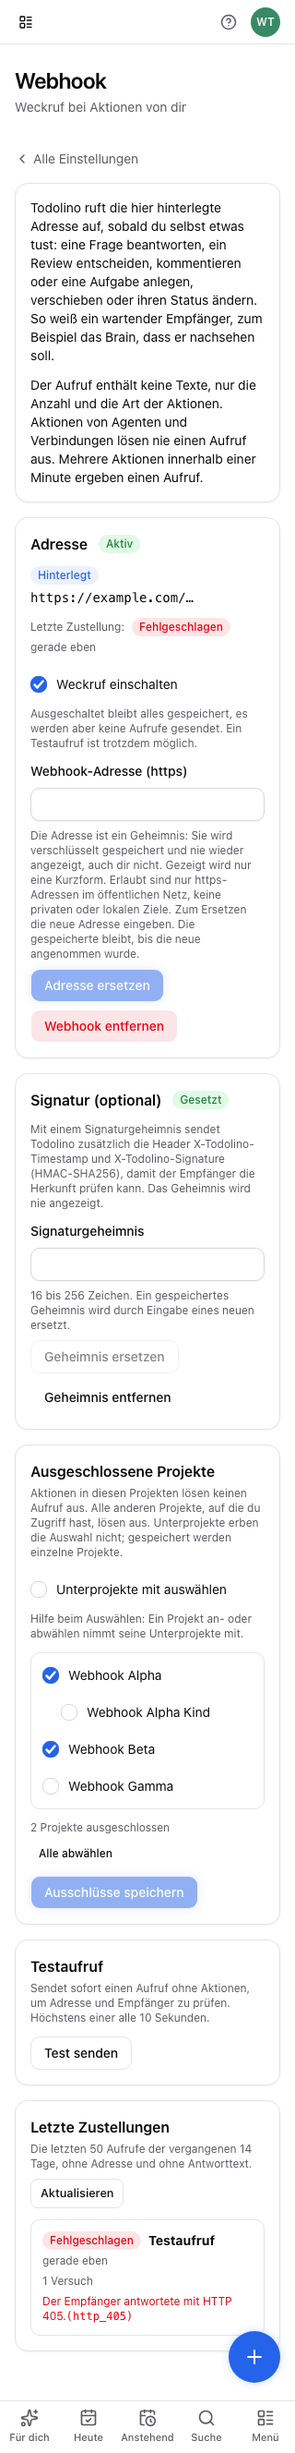
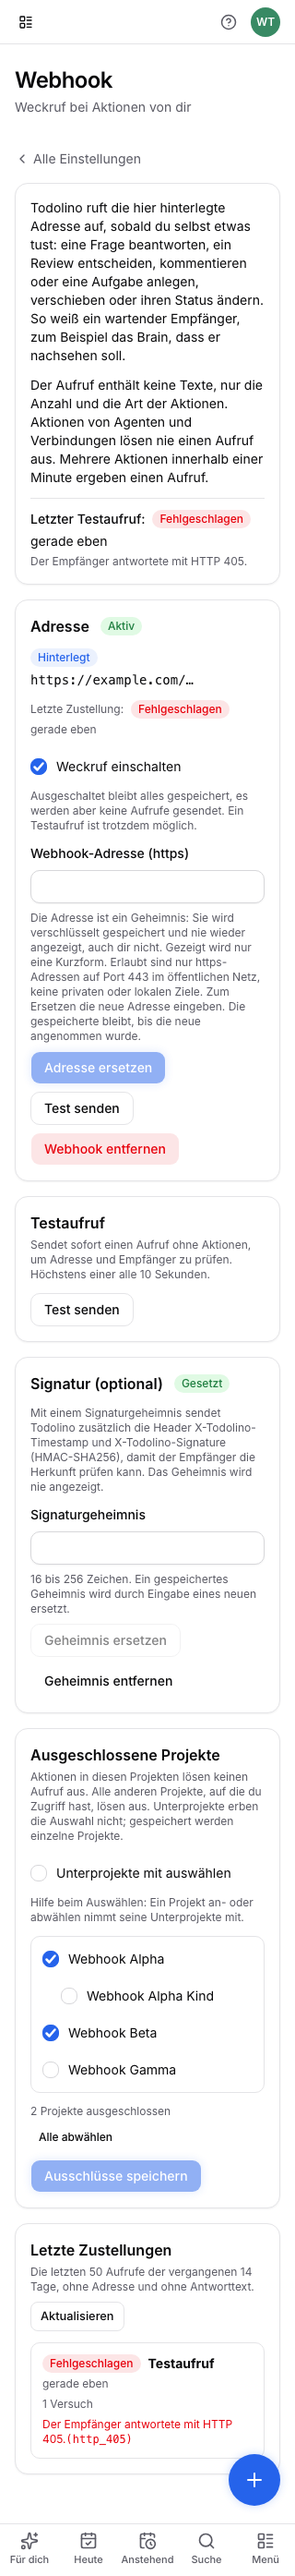
Karte F5D261AF, gruen: Webhook-Seite auffindbar (Schluessel-Hinweis, Testbereich immer sichtbar unter der Adresse, Test neben Speichern, letzter Test oben)
Server: GET /v1/settings/webhook liefert encryptionKeyAvailable (nur Flag), Vertrag 1.1.0.
PWA: Hinweis wh-nokey mit Befehl und Doku-Link, Speichern gesperrt mit Begruendung, wh-test-needs-url, wh-last-test.
Gruen: vitest 562, Swift Gesamt 768 (0 Fehler), E2E webhook-settings 14 gruen/1 skip (kein-DNS-Test), settings-hub 11 gruen.
Screenshots docs/screenshots/webhook-seite-*.png.

diff --git a/web/src/lib/components/settings/WebhookPage.svelte b/web/src/lib/components/settings/WebhookPage.svelte
@@ -5,11 +5,14 @@
 	import { describeError } from '#lib/errors.js';
 	import { t } from '#lib/i18n/index.js';
 	import { createLatest } from '#lib/serial.js';
+	import { KONFIGURATION_URL } from '#lib/helpNav.js';
 	import {
 		AUTO_DISABLE_FAILURES,
+		KEY_COMMAND,
 		MAX_EXCLUSIONS,
 		deliveryRow,
 		exclusionsChanged,
+		lastTestDelivery,
 		orderedProjects,
 		prefillExclusions,
 		safeMask,
@@ -18,6 +21,7 @@
 		toggleExclusion,
 		urlInput,
 		webhookErrorKey,
+		webhookSetup,
 		webhookStatus,
 		type WebhookDelivery,
 		type WebhookSettings
@@ -27,6 +31,7 @@
 	import { Checkbox } from '#lib/components/ui/checkbox/index.js';
 	import { Input } from '#lib/components/ui/input/index.js';
 	import Timestamp from '../Timestamp.svelte';
+	import ExternalLink from '@lucide/svelte/icons/external-link';
 
 	/**
 	 * Settings page "Webhook" (ADR 0035): one outgoing wake-up call per person. The address is a secret: it is typed into a masked
@@ -50,6 +55,9 @@
 	let withChildren = $state(false);
 	let confirmingRemove = $state(false);
 	let testResult = $state<{ ok: boolean; text: string } | null>(null);
+	// The result of the test sent in this view (kept when the protocol cannot be loaded) and the hint right after saving the address.
+	let freshTest = $state<WebhookDelivery | null>(null);
+	let justSaved = $state(false);
 	let busy = $state<Section | null>(null);
 	let message = $state('');
 	let error = $state<{ section: Section; text: string } | null>(null);
@@ -60,6 +68,10 @@
 	let removeButton = $state<HTMLButtonElement | null>(null);
 
 	const status = $derived(webhookStatus(settings));
+	const setup = $derived(webhookSetup(settings));
+	const noKey = $derived(setup === 'nokey');
+	const lastTest = $derived(lastTestDelivery([...deliveries, settings?.lastDelivery, freshTest]));
+	const lastTestRow = $derived(lastTest ? deliveryRow(lastTest) : null);
 	const configured = $derived(status !== 'none');
 	const mask = $derived(safeMask(settings?.maskedURL));
 	const rows = $derived(orderedProjects(projects));
@@ -136,7 +148,8 @@
 	async function saveURL(ev: SubmitEvent) {
 		ev.preventDefault();
 		const value = url;
-		if (!value || busy) return;
+		if (!value || busy || noKey) return;
+		justSaved = false;
 		const ok = await act('url', async () => {
 			settings = await api.updateWebhook({ url: value });
 			urlValue = '';
@@ -144,6 +157,7 @@
 			message = t('webhook.url.saved');
 		});
 		if (ok) {
+			justSaved = true;
 			await tick();
 			focusField('wh-url');
 		}
@@ -215,6 +229,8 @@
 			urlValue = '';
 			signingValue = '';
 			testResult = null;
+			freshTest = null;
+			justSaved = false;
 			await load();
 			message = t('webhook.remove.done');
 		});
@@ -223,10 +239,14 @@
 			focusField('wh-url');
 		} else confirmingRemove = false;
 	}
+	/** The one handler of every "Test senden" button (address card and test area). */
 	async function sendTest() {
+		if (!configured) return;
 		testResult = null;
+		justSaved = false;
 		await act('test', async () => {
 			const result = await api.testWebhook();
+			freshTest = result;
 			testResult = testOutcome(result);
 			await Promise.all([refreshDeliveries(), refreshSettings()]);
 		});
@@ -260,8 +280,34 @@
 
 <div class="flex max-w-3xl flex-col gap-4" data-testid="webhook-page">
 	<section class={card} data-testid="wh-intro">
+		{#if loaded && !loadError && noKey}
+			<div class="bg-warning-soft text-warning flex flex-col gap-2 {noteClass}" role="note" aria-labelledby="wh-nokey-title" data-testid="wh-nokey">
+				<p id="wh-nokey-title" class="font-semibold">{t('webhook.nokey.title')}</p>
+				<p>{t('webhook.nokey.text')}</p>
+				<p>{t('webhook.nokey.step')}</p>
+				<p><code class="bg-background text-foreground block rounded-md border px-2 py-1.5 font-mono text-xs break-all select-all" data-testid="wh-nokey-command">{KEY_COMMAND}</code></p>
+				<p>{t('webhook.nokey.after')}</p>
+				<p>
+					<a class="focus-visible:ring-ring/50 inline-flex items-center gap-1 rounded font-medium underline underline-offset-2 outline-none focus-visible:ring-2" href={KONFIGURATION_URL} target="_blank" rel="noopener noreferrer"
+						>{t('webhook.nokey.docs')}<ExternalLink class="size-3.5" aria-hidden="true" /><span class="sr-only">{t('webhook.nokey.newTab')}</span></a
+					>
+				</p>
+			</div>
+		{/if}
 		<p class="text-sm">{t('webhook.intro.what')}</p>
 		<p class="text-sm">{t('webhook.intro.limits')}</p>
+		{#if loaded && !loadError}
+			<p class="flex flex-wrap items-center gap-x-2 gap-y-1 border-t pt-3 text-sm" data-testid="wh-last-test">
+				<span class="font-medium">{t('webhook.lastTest.label')}</span>
+				{#if lastTest && lastTestRow}
+					<Badge variant={lastTestRow.tone}>{lastTestRow.stateLabel}</Badge>
+					<Timestamp value={lastTest.createdAt} />
+					{#if lastTestRow.state === 'failed' && lastTestRow.resultLabel}<span class="text-muted-foreground min-w-0 text-xs break-words">{lastTestRow.resultLabel}</span>{/if}
+				{:else}
+					<span class="text-muted-foreground">{t('webhook.lastTest.none')}</span>
+				{/if}
+			</p>
+		{/if}
 	</section>
 
 	<div role="status" aria-live="polite" class={message ? 'bg-success-soft text-success {noteClass}' : 'sr-only'} data-testid="wh-message">{message}</div>
@@ -330,12 +376,24 @@
 				/>
 				<p class="text-muted-foreground text-xs" id="wh-url-hint">{t('webhook.url.hint')}{#if configured}{' '}{t('webhook.url.hintReplace')}{/if}</p>
 				{@render notice('url')}
-				<div class="flex flex-wrap gap-2">
-					<Button type="submit" disabled={!!busy || !url} data-testid="wh-url-save">{busy === 'url' ? t('webhook.url.saving') : configured ? t('webhook.url.replace') : t('webhook.url.save')}</Button>
+				{#if justSaved && configured}
+					<p class="bg-success-soft text-success {noteClass}" id="wh-saved-next" data-testid="wh-saved-next">{t('webhook.url.savedNext')}</p>
+				{/if}
+				<div class="flex flex-wrap gap-2" data-testid="wh-url-actions">
+					<Button type="submit" disabled={!!busy || !url || noKey} aria-describedby={noKey ? 'wh-url-nokey-reason' : undefined} data-testid="wh-url-save">{busy === 'url' ? t('webhook.url.saving') : configured ? t('webhook.url.replace') : t('webhook.url.save')}</Button>
+					<Button
+						type="button"
+						variant={justSaved ? 'default' : 'outline'}
+						onclick={sendTest}
+						disabled={!!busy || !configured}
+						aria-describedby={!configured ? 'wh-test-needs-url' : justSaved ? 'wh-saved-next' : undefined}
+						data-testid="wh-test-inline">{busy === 'test' ? t('webhook.test.sending') : t('webhook.test.button')}</Button
+					>
 					{#if configured && !confirmingRemove}
 						<Button type="button" variant="destructive" bind:ref={removeButton} onclick={askRemove} disabled={!!busy} data-testid="wh-remove">{t('webhook.remove.button')}</Button>
 					{/if}
 				</div>
+				{#if noKey}<p class={muted} id="wh-url-nokey-reason" data-testid="wh-url-nokey-reason">{t('webhook.url.nokeyReason')}</p>{/if}
 				{#if !configured}<p class={muted} data-testid="wh-needs-url">{t('webhook.exclusions.needsUrl')}</p>{/if}
 			</form>
 
@@ -350,6 +408,19 @@
 				</div>
 			{/if}
 			{@render notice('remove')}
+		</section>
+
+		<section class={card} aria-labelledby="wh-test-title" data-testid="wh-test-card">
+			<div>
+				<h3 id="wh-test-title" class={heading}>{t('webhook.test.title')}</h3>
+				<p class="text-muted-foreground mt-1 text-xs">{t('webhook.test.hint')}</p>
+			</div>
+			<div class="flex flex-wrap items-center gap-x-3 gap-y-2">
+				<Button variant="outline" onclick={sendTest} disabled={!!busy || !configured} aria-describedby={configured ? undefined : 'wh-test-needs-url'} data-testid="wh-test">{busy === 'test' ? t('webhook.test.sending') : t('webhook.test.button')}</Button>
+				{#if !configured}<p class="text-muted-foreground text-sm" id="wh-test-needs-url" data-testid="wh-test-needs-url">{t('webhook.test.needsUrl')}</p>{/if}
+			</div>
+			<div role="status" aria-live="polite" class={testResult ? (testResult.ok ? 'bg-success-soft text-success' : 'bg-destructive/10 text-destructive') + ' ' + noteClass : 'sr-only'} data-testid="wh-test-result">{testResult?.text ?? ''}</div>
+			{@render notice('test')}
 		</section>
 
 		{#if configured}
@@ -426,18 +497,6 @@
 						<Button type="submit" disabled={!!busy || !changed} data-testid="wh-exclusions-save">{t('webhook.exclusions.save')}</Button>
 					</div>
 				</form>
-			</section>
-
-			<section class={card} aria-labelledby="wh-test-title" data-testid="wh-test-card">
-				<div>
-					<h3 id="wh-test-title" class={heading}>{t('webhook.test.title')}</h3>
-					<p class="text-muted-foreground mt-1 text-xs">{t('webhook.test.hint')}</p>
-				</div>
-				<div>
-					<Button variant="outline" onclick={sendTest} disabled={!!busy} data-testid="wh-test">{busy === 'test' ? t('webhook.test.sending') : t('webhook.test.button')}</Button>
-				</div>
-				<div role="status" aria-live="polite" class={testResult ? (testResult.ok ? 'bg-success-soft text-success' : 'bg-destructive/10 text-destructive') + ' ' + noteClass : 'sr-only'} data-testid="wh-test-result">{testResult?.text ?? ''}</div>
-				{@render notice('test')}
 			</section>
 		{/if}
 

diff --git a/web/src/lib/i18n/de-webhook.ts b/web/src/lib/i18n/de-webhook.ts
@@ -25,6 +25,18 @@ export const deWebhook = {
 	'webhook.url.saved': 'Adresse gespeichert.',
 	'webhook.url.required': 'Gib zuerst eine Adresse ein.',
 	'webhook.url.lastDelivery': 'Letzte Zustellung',
+	'webhook.url.savedNext': 'Gespeichert. Jetzt Testaufruf senden',
+	'webhook.url.nokeyReason': 'Speichern geht erst, wenn der Server einen Verschlüsselungsschlüssel hat. Das Vorgehen steht oben auf der Seite.',
+
+	'webhook.nokey.title': 'Dem Server fehlt der Verschlüsselungsschlüssel',
+	'webhook.nokey.text': 'Ohne ihn kann Todolino keine Adresse und kein Signaturgeheimnis speichern. Alles andere funktioniert.',
+	'webhook.nokey.step': 'Auf dem Server ausführen:',
+	'webhook.nokey.after': 'Das legt das Swarm-Secret todo_settings_key an (nur, wenn es fehlt) und setzt SETTINGS_KEY_ENABLED=true. Danach neu ausrollen und diese Seite neu laden.',
+	'webhook.nokey.docs': 'Anleitung in der Dokumentation',
+	'webhook.nokey.newTab': '(öffnet in neuem Tab)',
+
+	'webhook.lastTest.label': 'Letzter Testaufruf:',
+	'webhook.lastTest.none': 'Noch kein Testaufruf',
 
 	'webhook.remove.button': 'Webhook entfernen',
 	'webhook.remove.title': 'Webhook wirklich entfernen?',
@@ -66,11 +78,12 @@ export const deWebhook = {
 	'webhook.exclusions.clear': 'Alle abwählen',
 	'webhook.exclusions.save': 'Ausschlüsse speichern',
 	'webhook.exclusions.saved': 'Ausschlüsse gespeichert.',
-	'webhook.exclusions.needsUrl': 'Signatur, Ausschlüsse und Testaufruf erscheinen, sobald eine Adresse hinterlegt ist.',
+	'webhook.exclusions.needsUrl': 'Signatur und Ausschlüsse erscheinen, sobald eine Adresse hinterlegt ist.',
 
 	'webhook.test.title': 'Testaufruf',
 	'webhook.test.hint': 'Sendet sofort einen Aufruf ohne Aktionen, um Adresse und Empfänger zu prüfen. Höchstens einer alle 10 Sekunden.',
 	'webhook.test.button': 'Test senden',
+	'webhook.test.needsUrl': 'Erst die Adresse speichern.',
 	'webhook.test.sending': 'Wird gesendet …',
 	'webhook.test.sent': 'Testaufruf zugestellt.',
 	'webhook.test.sentHttp': 'Testaufruf zugestellt (HTTP {status}).',

diff --git a/web/src/lib/webhook.ts b/web/src/lib/webhook.ts
@@ -312,12 +312,29 @@ export const KEY_COMMAND = 'deploy/swarm/settings.sh --generate SETTINGS_ENCRYPT
 
 export type WebhookSetup = 'nokey' | 'nourl' | 'ready';
 
-/** STUB (card F5D261AF, red state). */
-export function webhookSetup(_s: WebhookSettings | null | undefined): WebhookSetup {
-	return 'ready';
+/**
+ * What the page has to lead with: no usable server key (nothing can be saved), no stored address yet, or ready. A server that does
+ * not send `encryptionKeyAvailable` (older than contract 1.1.0) counts as having a key; the save then answers for itself.
+ */
+export function webhookSetup(s: WebhookSettings | null | undefined): WebhookSetup {
+	if (s?.encryptionKeyAvailable === false) return 'nokey';
+	return s?.configured ? 'ready' : 'nourl';
 }
 
-/** STUB (card F5D261AF, red state). */
-export function lastTestDelivery(_list: readonly (WebhookDelivery | null | undefined)[]): WebhookDelivery | null {
-	return null;
+const timeOf = (d: WebhookDelivery) => {
+	const ms = Date.parse(d.createdAt);
+	return Number.isNaN(ms) ? Number.NEGATIVE_INFINITY : ms;
+};
+
+/**
+ * The newest delivery with event `test` among the given ones (protocol, `lastDelivery` of the settings, a fresh result), or null.
+ * Order of the input does not matter; of equal times the first wins; an unreadable time loses against a readable one.
+ */
+export function lastTestDelivery(list: readonly (WebhookDelivery | null | undefined)[]): WebhookDelivery | null {
+	let best: WebhookDelivery | null = null;
+	for (const d of list) {
+		if (!d || d.event !== 'test') continue;
+		if (!best || timeOf(d) > timeOf(best)) best = d;
+	}
+	return best;
 }

diff --git a/Sources/TodoKit/Webhook/WebhookService.swift b/Sources/TodoKit/Webhook/WebhookService.swift
@@ -40,6 +40,9 @@ struct WebhookSettingsDTO: Content {
     /// Failed bundles in a row; at 10 the server switches the webhook off (`enabled` false).
     let consecutiveFailures: Int
     let lastDelivery: WebhookDeliveryDTO?
+    /// Whether the server has a current encryption key, i.e. whether saving the address or the signing secret can work at all.
+    /// Only this flag: never the key, its id or anything derived from it (card F5D261AF).
+    let encryptionKeyAvailable: Bool
 }
 
 /// `url` and `signingSecret`: absent = unchanged, `null` = delete, string = set. Hence the manual decoding.
@@ -83,7 +86,8 @@ struct WebhookService: Sendable {
         return WebhookSettingsDTO(
             configured: endpoint != nil, maskedURL: endpoint.map { $0.urlMask + "/…" }, enabled: endpoint?.enabled ?? false,
             signingConfigured: endpoint?.signingCiphertext != nil, excludedProjectIDs: excluded,
-            consecutiveFailures: endpoint?.consecutiveFailures ?? 0, lastDelivery: try last.map(WebhookDeliveryDTO.init))
+            consecutiveFailures: endpoint?.consecutiveFailures ?? 0, lastDelivery: try last.map(WebhookDeliveryDTO.init),
+            encryptionKeyAvailable: (try? app.requireSettingsRuntime().keyRing.canEncrypt) ?? false)
     }
 
     /// Checks the target at save time: https, no credentials, literal IPs and the resolved address at level strict.

diff --git a/web/src/lib/helpNav.ts b/web/src/lib/helpNav.ts
@@ -16,7 +16,7 @@ export const HELP_PAGES: HelpPage[] = [
 export const DOCS_URL = 'https://magicalwig34653.github.io/todo/';
 export const ISSUES_URL = 'https://github.com/MagicalWig34653/todo/issues';
 /** Server configuration guide, section "Einstellungsprogramm settings.sh" (used by the webhook page when the server has no encryption key). */
-export const KONFIGURATION_URL = 'STUB';
+export const KONFIGURATION_URL = 'https://github.com/MagicalWig34653/todo/blob/main/docs/KONFIGURATION.md#einstellungsprogramm-settingssh-env-datei-per-menü-oder-kommandozeile';
 export const CHANGELOG_URL = 'https://github.com/MagicalWig34653/todo/commits/main';
 
 /** Page id -> English URL slug (`/help/<slug>`); other ids are their own slug. */

diff --git a/web/e2e/webhook-settings.spec.ts b/web/e2e/webhook-settings.spec.ts
@@ -471,6 +471,8 @@ test('state "set up": test next to save, result of the last test on top, test ar
 	// The button of the address card works like the one of the test area (one handler): a result, or the 10-second answer.
 	await inline.click();
 	await expect(page.getByTestId('wh-test-result').filter({ hasText: /Testaufruf/ }).or(err())).toBeVisible({ timeout: 30_000 });
+	// The request is over (buttons are enabled again) before the next test starts.
+	await expect(inline).toBeEnabled({ timeout: 30_000 });
 	await expectNoSecret('set up state');
 	await noOverflow('set up');
 	await shootState('eingerichtet', { dark320: true });
